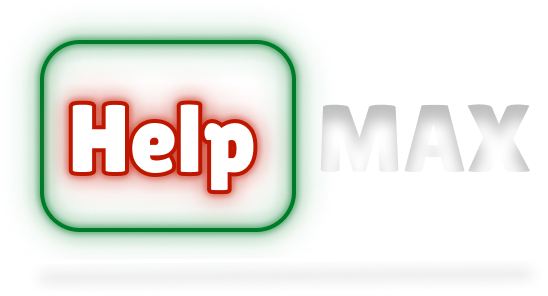
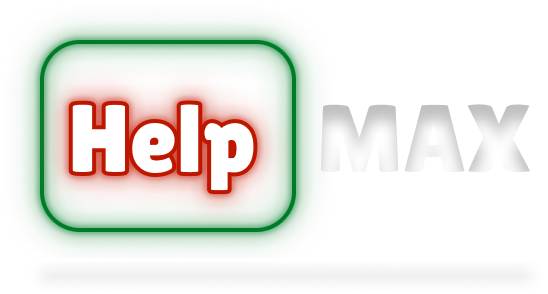
addLagreement

diff --git a/src/main/java/com/example/application/components/Components.java b/src/main/java/com/example/application/components/Components.java
@@ -1,15 +1,20 @@
 package com.example.application.components;
 
+import com.vaadin.flow.component.Html;
 import com.vaadin.flow.component.Text;
+import com.vaadin.flow.component.button.Button;
+import com.vaadin.flow.component.confirmdialog.ConfirmDialog;
 import com.vaadin.flow.component.html.Div;
 import com.vaadin.flow.component.html.Image;
+import com.vaadin.flow.component.html.Span;
 import com.vaadin.flow.component.orderedlayout.FlexComponent;
+import com.vaadin.flow.component.orderedlayout.HorizontalLayout;
 import com.vaadin.flow.component.orderedlayout.VerticalLayout;
 import com.vaadin.flow.server.StreamResource;
 
 public class Components {
 
-
+     private Span status;
 
     public Div widthLayouts() {
         Div divNew = new Div();
@@ -19,14 +24,62 @@ public class Components {
 
         return divNew;
     }
-
+    //Метод который помещает на HomeView логотип на страницу
     public Image logotipSite () {
         StreamResource imageResource = new StreamResource("Emblems.png",
                 () -> getClass().getResourceAsStream("/images/Emblems.png"));
         Image image = new Image(imageResource, "My Streamed Image");
-        image.setHeight("81px");
-        image.setWidth("150px");
+        image.setHeight("89px");
+        image.setWidth("165px");
         return image;
+    }
+
+    // Метод который помещает на HomeView предупреждение для пользователя
+    public HorizontalLayout agreement () {
+        HorizontalLayout layout = new HorizontalLayout();
+        layout.setAlignItems(FlexComponent.Alignment.CENTER);
+        layout.setJustifyContentMode(FlexComponent.JustifyContentMode.CENTER);
+        status = new Span();
+        status.setVisible(false);
+        ConfirmDialog dialog = new ConfirmDialog();
+        dialog.setHeader("Важное предупреждение");
+        Html content = new Html("""
+            <div>
+                <p>Используя наш сайт, вы подтверждаете:</p>
+                <ul>
+                    <li>Согласие с условиями использования</li>
+                    <li>Готовность нести ответственность за установку ПО</li>
+                    <li>Ознакомление с инструкциями и предупреждениями</li>
+                </ul>
+                <p>Мы предоставляем:</p>
+                <ul>
+                    <li>Бесплатные APK-файлы из открытых источников</li>
+                    <li>Подробные инструкции со скриншотами</li>
+                    <li>Видео-гайды для каждого этапа установки</li>
+                </ul>
+                <p>Риски при установке программного обеспечения несет ПОЛЬЗОВАТЕЛЬ. Мы не несем ответственности за возможные проблемы с устройством.</p>
+                <p>Следуя нашим инструкциям внимательно и выполняя все шаги правильно, вы сможете успешно установить приложения, и они будут работать корректно.</p>
+                <p>Нажимая "СОГЛАСЕН", вы принимаете все вышеуказанные условия.</p>
+            </div>
+            """);
+        dialog.setText(content);
+        dialog.setCancelable(true);
+        dialog.setCancelText("Отказаться");
+        dialog.addCancelListener(event -> setStatus("Canceled"));
+
+        dialog.setConfirmText("Принять");
+        dialog.addConfirmListener(event -> setStatus("Принято"));
+
+
+        dialog.open();
+        status.setVisible(true);
+
+        return layout;
+    }
+
+    private void setStatus(String value) {
+        status.setText("Status: " + value);
+        status.setVisible(true);
     }
 
 

diff --git a/src/main/java/com/example/application/views/HomeView.java b/src/main/java/com/example/application/views/HomeView.java
@@ -8,15 +8,16 @@ import com.vaadin.flow.component.dependency.CssImport;
 import com.vaadin.flow.component.html.H3;
 import com.vaadin.flow.component.html.H5;
 import com.vaadin.flow.component.orderedlayout.HorizontalLayout;
+import com.vaadin.flow.component.orderedlayout.VerticalLayout;
 import com.vaadin.flow.router.PageTitle;
 import com.vaadin.flow.router.Route;
 
 @PageTitle("HelpMax")
 @Route("")
 public class HomeView extends AppLayout {
-
-
     Components components = new Components();
+
+
 
 
 
@@ -26,13 +27,15 @@ public class HomeView extends AppLayout {
      addToNavbar(components.logotipSite());
      setClassName("navbar");
 
+
+     setContent(components.agreement());
+
 //        setJustifyContentMode(JustifyContentMode.CENTER);
 //        setAlignItems(Alignment.CENTER);
 //        setWidthFull(); // Занимаем всю доступную ширину
 //        setHeightFull();
 //
 //        add(components.widthLayouts());
-
     }
 
 }
